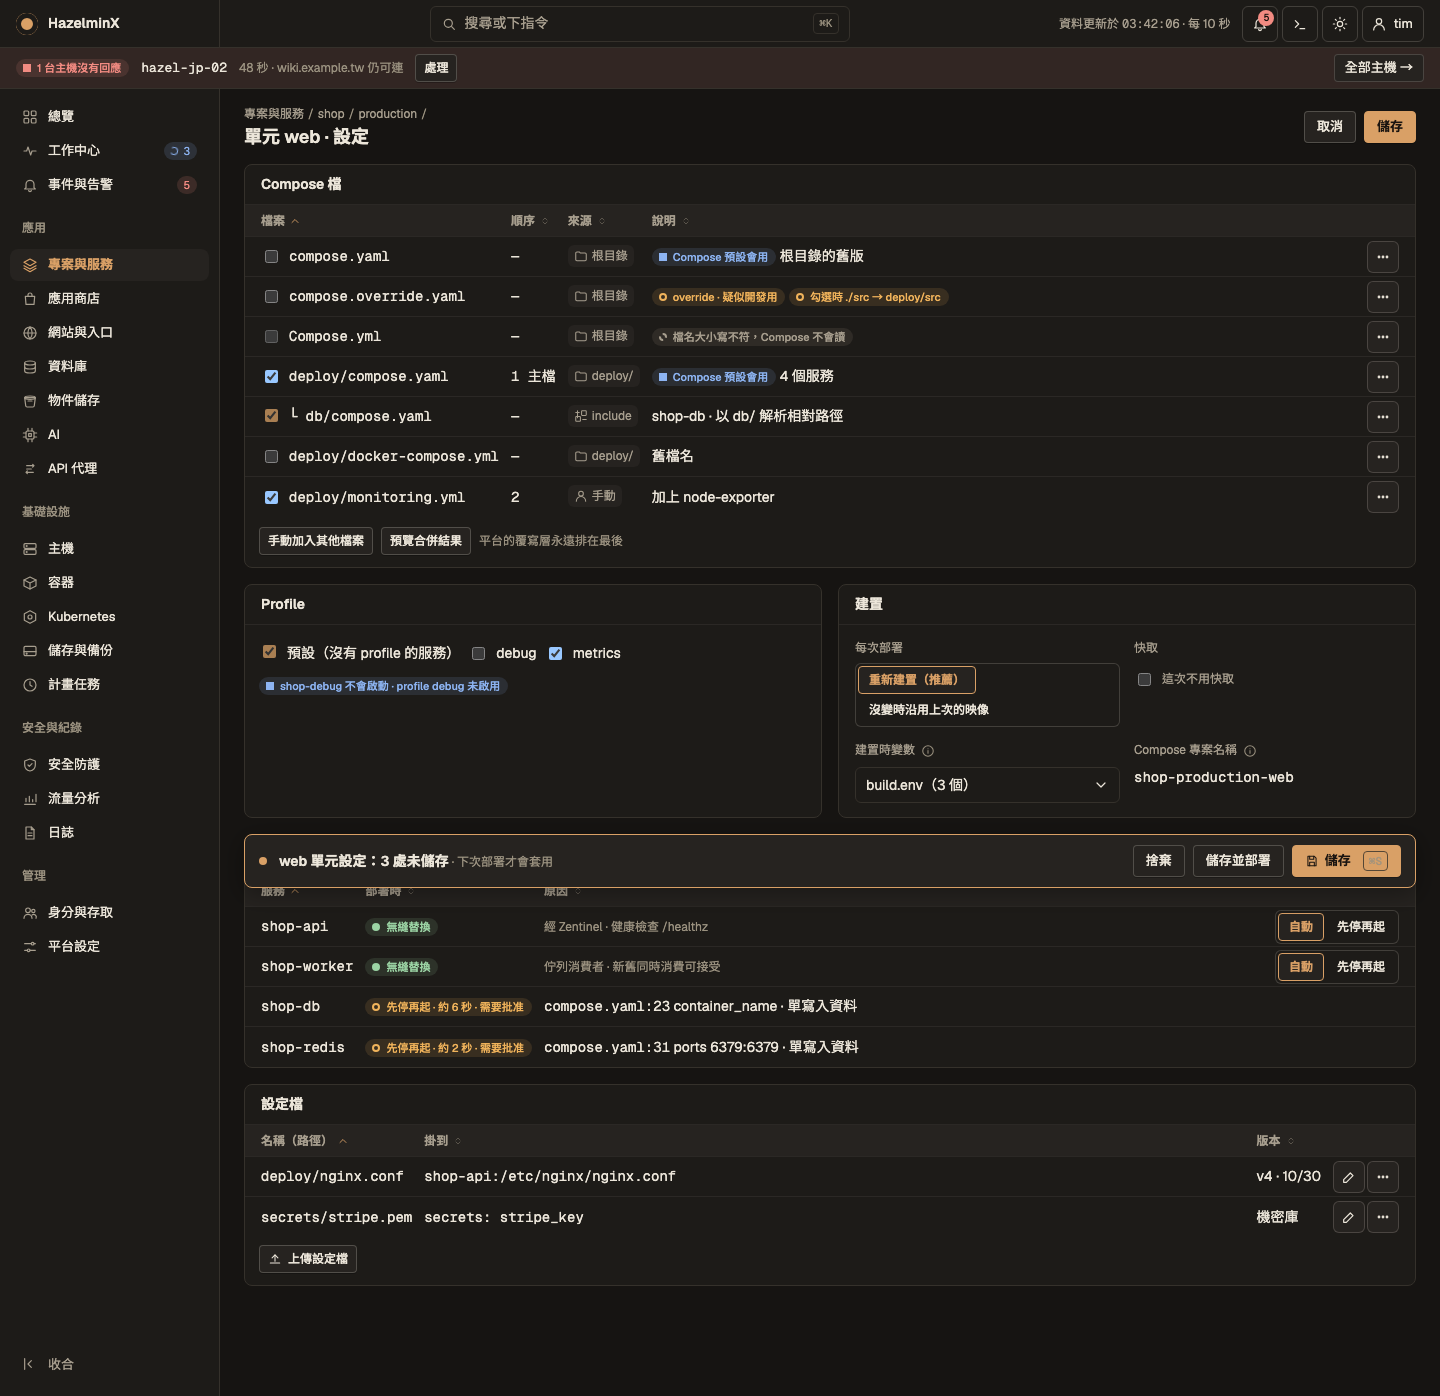
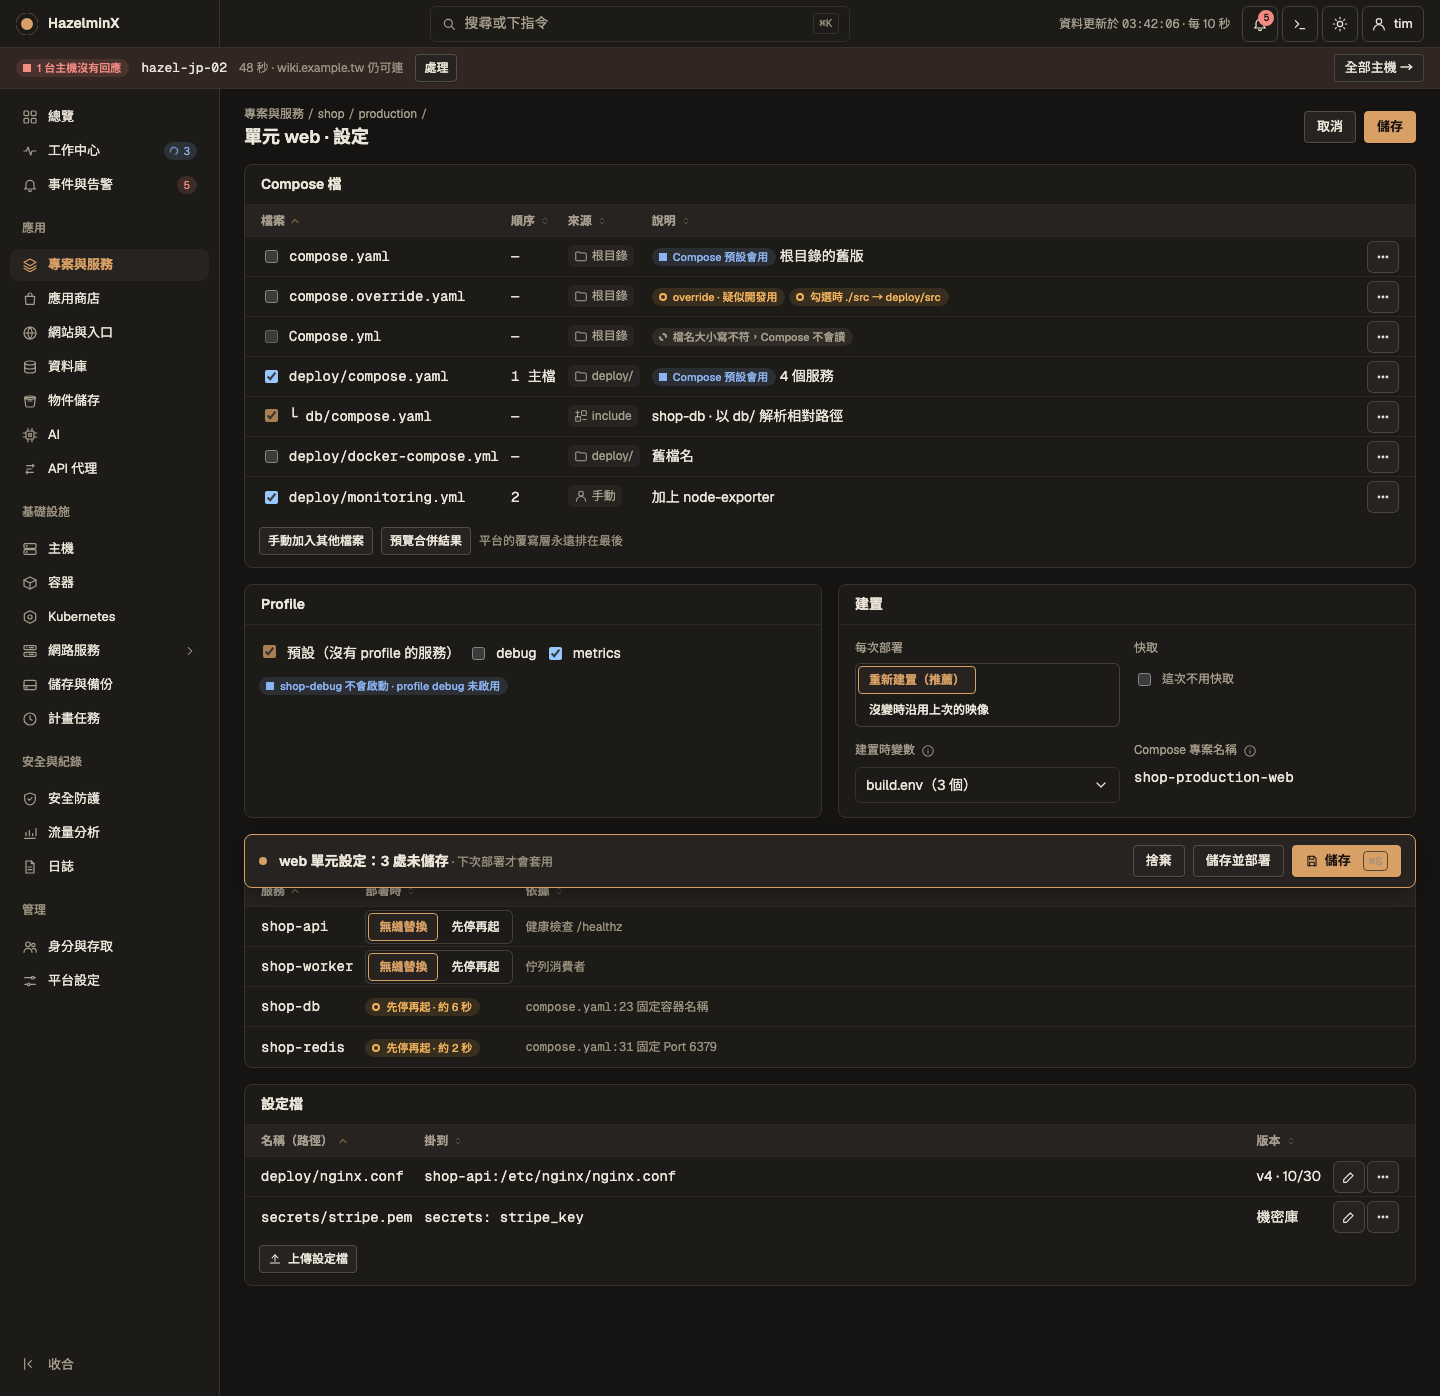
design: name the replacement modes explicitly on the unit config board

Changed region(s): [[0.25, 0.6468, 0.5938, 0.7701], [0.0, 0.462, 0.0938, 0.7085], [0.875, 0.6468, 0.9688, 0.7085]]

diff --git a/design/screens/UnitConfig.dc.html b/design/screens/UnitConfig.dc.html
@@ -510,11 +510,11 @@ body{margin:0}
         <div class="wrap"><label style="display:flex;gap:8px;align-items:center;min-height:32px"><span tabindex="0" data-tip="沒有 profile 的服務一定會啟動"><input type="checkbox" class="lockck" checked aria-disabled="true" tabindex="-1" aria-label="預設（沒有 profile 的服務）（沒有 profile 的服務一定會啟動）"></span>預設（沒有 profile 的服務）</label><label style="display:flex;gap:8px;align-items:center;min-height:32px"><input type="checkbox">debug</label><label style="display:flex;gap:8px;align-items:center;min-height:32px"><input type="checkbox" checked>metrics</label></div>
         <div class="wrap"><span class="st info"><i aria-hidden="true"></i>shop-debug 不會啟動 · profile debug 未啟用</span></div>
       </div></section><section class="panel"><div class="ph"><h2>建置</h2></div><div style="padding:14px 16px;display:grid;grid-template-columns:repeat(auto-fit,minmax(min(240px,100%),1fr));gap:14px"><div class="field"><label>每次部署</label><div class="range" role="group" aria-label="建置" style="flex-wrap:wrap"><button type="button" class="btn on" aria-pressed="true">重新建置（推薦）</button><button type="button" class="btn" aria-pressed="false">沒變時沿用上次的映像</button></div></div><div class="field"><label>快取</label><label style="display:flex;gap:8px;align-items:center;min-height:32px"><input type="checkbox">這次不用快取</label></div><div class="field"><label>建置時變數 <span class="hint" tabindex="0" role="img" aria-label="以 build args 提供，不會進到執行中的容器" data-tip="以 build args 提供，不會進到執行中的容器"><svg viewBox="0 0 24 24" width="14" height="14" fill="none" stroke="currentColor" stroke-width="1.8" stroke-linecap="round" stroke-linejoin="round" aria-hidden="true"><circle cx="12" cy="12" r="9"/><path d="M12 11v5M12 8h.01"/></svg></span></label><div class="inp"><span style="flex:1;min-width:0;overflow-wrap:anywhere">build.env（3 個）</span><svg viewBox="0 0 24 24" width="16" height="16" fill="none" stroke="currentColor" stroke-width="1.8" stroke-linecap="round" stroke-linejoin="round" aria-hidden="true"><path d="m6 9 6 6 6-6"/></svg></div></div><div class="field"><label>Compose 專案名稱 <span class="hint" tabindex="0" role="img" aria-label="改單元名稱也不會變；儲存卷是 shop-production-web_uploads" data-tip="改單元名稱也不會變；儲存卷是 shop-production-web_uploads"><svg viewBox="0 0 24 24" width="14" height="14" fill="none" stroke="currentColor" stroke-width="1.8" stroke-linecap="round" stroke-linejoin="round" aria-hidden="true"><circle cx="12" cy="12" r="9"/><path d="M12 11v5M12 8h.01"/></svg></span></label><span class="mono">shop-production-web</span></div></div></section></div><section class="panel"><div class="ph"><h2>替換方式</h2></div>
-      <div class="tw" style="--tc:auto auto var(--k3,minmax(min(160px,34%),1fr)) auto"><div class="row hd r0"><span class=""><span class="sortable on">服務 <svg viewBox="0 0 24 24" width="12" height="12" fill="none" stroke="currentColor" stroke-width="1.8" stroke-linecap="round" stroke-linejoin="round" aria-hidden="true"><path d="m6 15 6-6 6 6"/></svg></span></span><span class=""><span class="sortable">部署時 <svg viewBox="0 0 24 24" width="12" height="12" fill="none" stroke="currentColor" stroke-width="1.8" stroke-linecap="round" stroke-linejoin="round" aria-hidden="true"><path d="m8 10 4-4 4 4"/><path d="m8 14 4 4 4-4"/></svg></span></span><span class="c3"><span class="sortable">原因 <svg viewBox="0 0 24 24" width="12" height="12" fill="none" stroke="currentColor" stroke-width="1.8" stroke-linecap="round" stroke-linejoin="round" aria-hidden="true"><path d="m8 10 4-4 4 4"/><path d="m8 14 4 4 4-4"/></svg></span></span><span class=""></span></div>
-      <div class="row r0"><span class="mono">shop-api</span><span><span class="st ok"><i aria-hidden="true"></i>無縫替換</span></span><span class="c3 note">經 Zentinel · 健康檢查 /healthz</span><span><div class="range" role="group" aria-label="shop-api" style="flex-wrap:wrap"><button type="button" class="btn on" aria-pressed="true">自動</button><button type="button" class="btn" aria-pressed="false">先停再起</button></div></span></div>
-      <div class="row r0"><span class="mono">shop-worker</span><span><span class="st ok"><i aria-hidden="true"></i>無縫替換</span></span><span class="c3 note">佇列消費者 · 新舊同時消費可接受</span><span><div class="range" role="group" aria-label="shop-worker" style="flex-wrap:wrap"><button type="button" class="btn on" aria-pressed="true">自動</button><button type="button" class="btn" aria-pressed="false">先停再起</button></div></span></div>
-      <div class="row r0"><span class="mono">shop-db</span><span><span class="st warn"><i aria-hidden="true"></i>先停再起 · 約 6 秒 · 需要批准</span></span><span class="c3"><span class="mono">compose.yaml:23</span> container_name · 單寫入資料</span><span></span></div>
-      <div class="row r0"><span class="mono">shop-redis</span><span><span class="st warn"><i aria-hidden="true"></i>先停再起 · 約 2 秒 · 需要批准</span></span><span class="c3"><span class="mono">compose.yaml:31</span> ports 6379:6379 · 單寫入資料</span><span></span></div></div></section><section class="panel"><div class="ph"><h2>設定檔</h2></div>
+      <div class="tw" style="--tc:auto auto var(--k3,minmax(min(160px,34%),1fr)) auto"><div class="row hd r0"><span class=""><span class="sortable on">服務 <svg viewBox="0 0 24 24" width="12" height="12" fill="none" stroke="currentColor" stroke-width="1.8" stroke-linecap="round" stroke-linejoin="round" aria-hidden="true"><path d="m6 15 6-6 6 6"/></svg></span></span><span class=""><span class="sortable">部署時 <svg viewBox="0 0 24 24" width="12" height="12" fill="none" stroke="currentColor" stroke-width="1.8" stroke-linecap="round" stroke-linejoin="round" aria-hidden="true"><path d="m8 10 4-4 4 4"/><path d="m8 14 4 4 4-4"/></svg></span></span><span class="c3"><span class="sortable">依據 <svg viewBox="0 0 24 24" width="12" height="12" fill="none" stroke="currentColor" stroke-width="1.8" stroke-linecap="round" stroke-linejoin="round" aria-hidden="true"><path d="m8 10 4-4 4 4"/><path d="m8 14 4 4 4-4"/></svg></span></span><span class=""></span></div>
+      <div class="row r0"><span class="mono">shop-api</span><span><div class="range" role="group" aria-label="shop-api" style="flex-wrap:wrap"><button type="button" class="btn on" aria-pressed="true">無縫替換</button><button type="button" class="btn" aria-pressed="false">先停再起</button></div></span><span class="c3 note">健康檢查 /healthz</span><span></span></div>
+      <div class="row r0"><span class="mono">shop-worker</span><span><div class="range" role="group" aria-label="shop-worker" style="flex-wrap:wrap"><button type="button" class="btn on" aria-pressed="true">無縫替換</button><button type="button" class="btn" aria-pressed="false">先停再起</button></div></span><span class="c3 note">佇列消費者</span><span></span></div>
+      <div class="row r0"><span class="mono">shop-db</span><span><span class="st warn"><i aria-hidden="true"></i>先停再起 · 約 6 秒</span></span><span class="c3 note"><span class="mono">compose.yaml:23</span> 固定容器名稱</span><span></span></div>
+      <div class="row r0"><span class="mono">shop-redis</span><span><span class="st warn"><i aria-hidden="true"></i>先停再起 · 約 2 秒</span></span><span class="c3 note"><span class="mono">compose.yaml:31</span> 固定 Port 6379</span><span></span></div></div></section><section class="panel"><div class="ph"><h2>設定檔</h2></div>
       <div class="tw" style="--tc:auto minmax(min(160px,34%),1fr) var(--k3,auto) auto"><div class="row hd r0"><span class=""><span class="sortable on">名稱（路徑） <svg viewBox="0 0 24 24" width="12" height="12" fill="none" stroke="currentColor" stroke-width="1.8" stroke-linecap="round" stroke-linejoin="round" aria-hidden="true"><path d="m6 15 6-6 6 6"/></svg></span></span><span class=""><span class="sortable">掛到 <svg viewBox="0 0 24 24" width="12" height="12" fill="none" stroke="currentColor" stroke-width="1.8" stroke-linecap="round" stroke-linejoin="round" aria-hidden="true"><path d="m8 10 4-4 4 4"/><path d="m8 14 4 4 4-4"/></svg></span></span><span class="c3"><span class="sortable">版本 <svg viewBox="0 0 24 24" width="12" height="12" fill="none" stroke="currentColor" stroke-width="1.8" stroke-linecap="round" stroke-linejoin="round" aria-hidden="true"><path d="m8 10 4-4 4 4"/><path d="m8 14 4 4 4-4"/></svg></span></span><span class=""></span></div>
       <div class="row r0"><span class="mono">deploy/nginx.conf</span><span class="mono">shop-api:/etc/nginx/nginx.conf</span><span class="c3">v4 · 10/30</span><span><span class="acts"><button type="button" class="ib" aria-label="重新命名" title="重新命名"><svg viewBox="0 0 24 24" width="16" height="16" fill="none" stroke="currentColor" stroke-width="1.8" stroke-linecap="round" stroke-linejoin="round" aria-hidden="true"><path d="M4 20h4l10-10-4-4L4 16v4z"/></svg></button><button type="button" class="ib" aria-label="更多" title="更多"><svg viewBox="0 0 24 24" width="16" height="16" fill="none" stroke="currentColor" stroke-width="1.8" stroke-linecap="round" stroke-linejoin="round" aria-hidden="true"><circle cx="6" cy="12" r="1.2"/><circle cx="12" cy="12" r="1.2"/><circle cx="18" cy="12" r="1.2"/></svg></button></span></span></div>
       <div class="row r0"><span class="mono">secrets/stripe.pem</span><span class="mono">secrets: stripe_key</span><span class="c3">機密庫</span><span><span class="acts"><button type="button" class="ib" aria-label="重新命名" title="重新命名"><svg viewBox="0 0 24 24" width="16" height="16" fill="none" stroke="currentColor" stroke-width="1.8" stroke-linecap="round" stroke-linejoin="round" aria-hidden="true"><path d="M4 20h4l10-10-4-4L4 16v4z"/></svg></button><button type="button" class="ib" aria-label="更多" title="更多"><svg viewBox="0 0 24 24" width="16" height="16" fill="none" stroke="currentColor" stroke-width="1.8" stroke-linecap="round" stroke-linejoin="round" aria-hidden="true"><circle cx="6" cy="12" r="1.2"/><circle cx="12" cy="12" r="1.2"/><circle cx="18" cy="12" r="1.2"/></svg></button></span></span></div></div>

diff --git a/design/tools/build_screens.py b/design/tools/build_screens.py
@@ -4403,11 +4403,11 @@ def unit_config() -> str:
         <div class="wrap">{U.status("info", "shop-debug 不會啟動 · profile debug 未啟用")}</div>
       </div>""")
     swap = _fp("替換方式", f"""
-      <div class="row hd"><span>服務</span><span>部署時</span><span class="c3">原因</span><span></span></div>
-      <div class="row"><span class="mono">shop-api</span><span>{U.status("ok", "無縫替換")}</span><span class="c3 note">經 Zentinel · 健康檢查 /healthz</span><span>{_seg(["自動", "先停再起"], 0, "shop-api")}</span></div>
-      <div class="row"><span class="mono">shop-worker</span><span>{U.status("ok", "無縫替換")}</span><span class="c3 note">佇列消費者 · 新舊同時消費可接受</span><span>{_seg(["自動", "先停再起"], 0, "shop-worker")}</span></div>
-      <div class="row"><span class="mono">shop-db</span><span>{U.status("warn", "先停再起 · 約 6 秒 · 需要批准")}</span><span class="c3"><span class="mono">compose.yaml:23</span> container_name · 單寫入資料</span><span></span></div>
-      <div class="row"><span class="mono">shop-redis</span><span>{U.status("warn", "先停再起 · 約 2 秒 · 需要批准")}</span><span class="c3"><span class="mono">compose.yaml:31</span> ports 6379:6379 · 單寫入資料</span><span></span></div>""")
+      <div class="row hd"><span>服務</span><span>部署時</span><span class="c3">依據</span><span></span></div>
+      <div class="row"><span class="mono">shop-api</span><span>{_seg(["無縫替換", "先停再起"], 0, "shop-api")}</span><span class="c3 note">健康檢查 /healthz</span><span></span></div>
+      <div class="row"><span class="mono">shop-worker</span><span>{_seg(["無縫替換", "先停再起"], 0, "shop-worker")}</span><span class="c3 note">佇列消費者</span><span></span></div>
+      <div class="row"><span class="mono">shop-db</span><span>{U.status("warn", "先停再起 · 約 6 秒")}</span><span class="c3 note"><span class="mono">compose.yaml:23</span> 固定容器名稱</span><span></span></div>
+      <div class="row"><span class="mono">shop-redis</span><span>{U.status("warn", "先停再起 · 約 2 秒")}</span><span class="c3 note"><span class="mono">compose.yaml:31</span> 固定 Port 6379</span><span></span></div>""", sub="無縫替換：新版健康後才停舊版，不中斷。資料庫類只能先停再起，部署前需要批准")
     build = _fp("建置", _grid(
         _fld("每次部署", _seg(["重新建置（推薦）", "沒變時沿用上次的映像"], 0, "建置")),
         _fld("快取", _cb("這次不用快取", False)),
